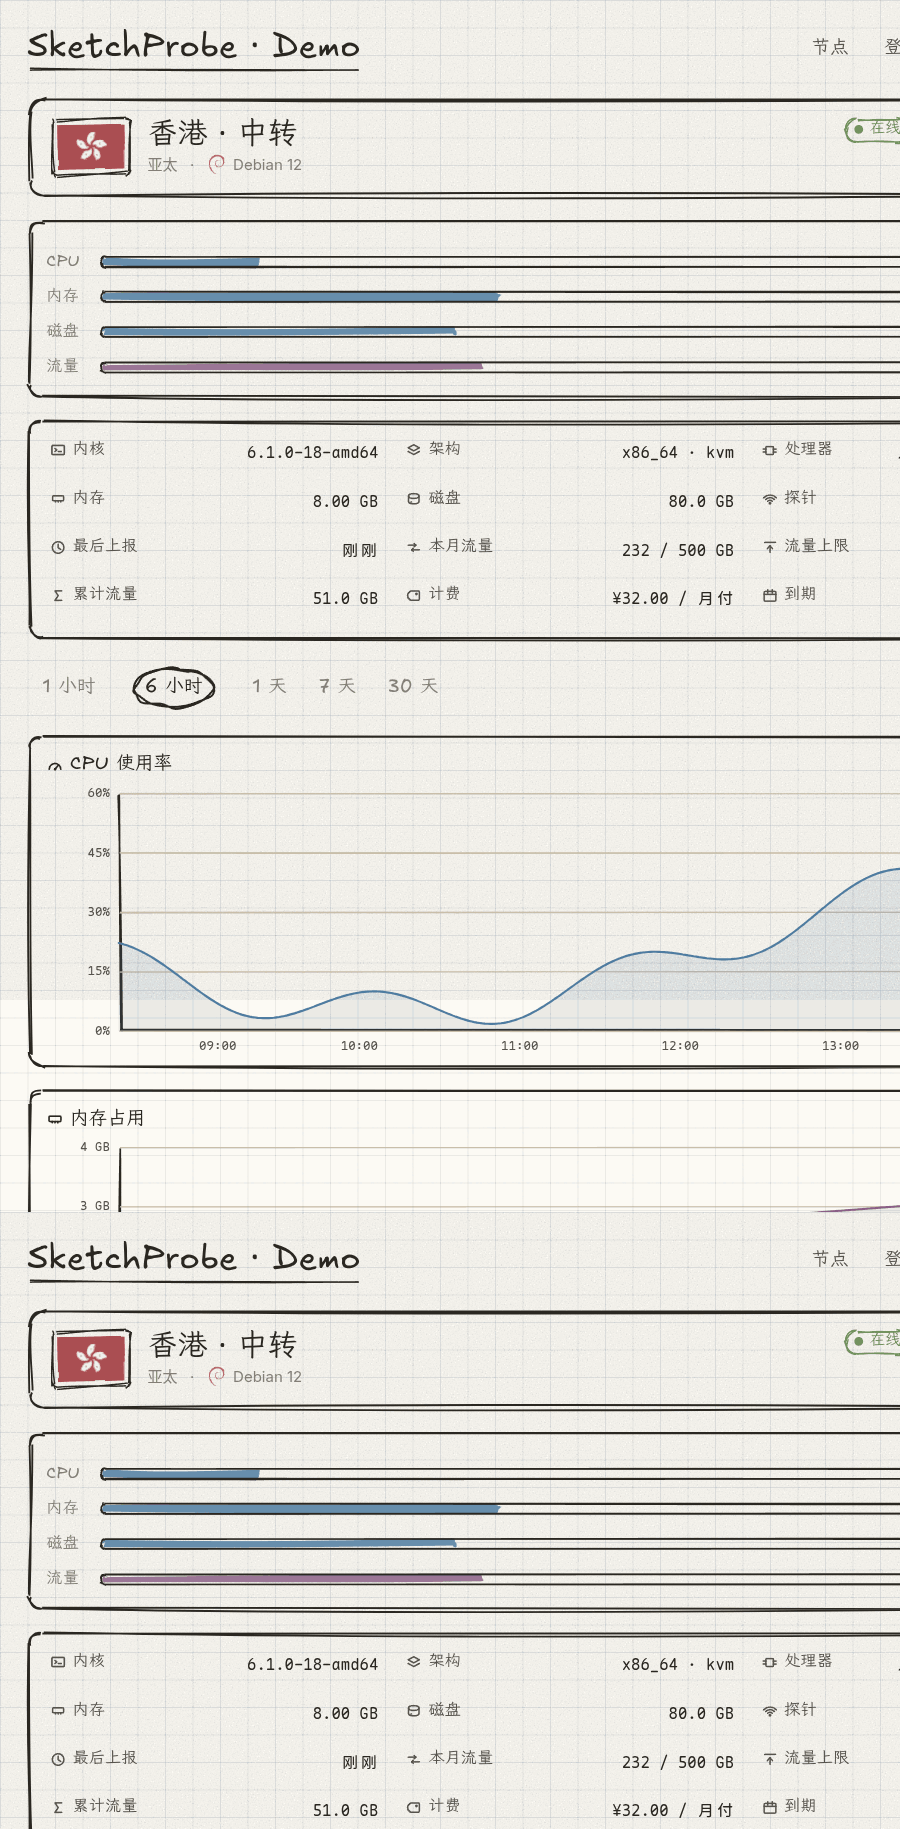
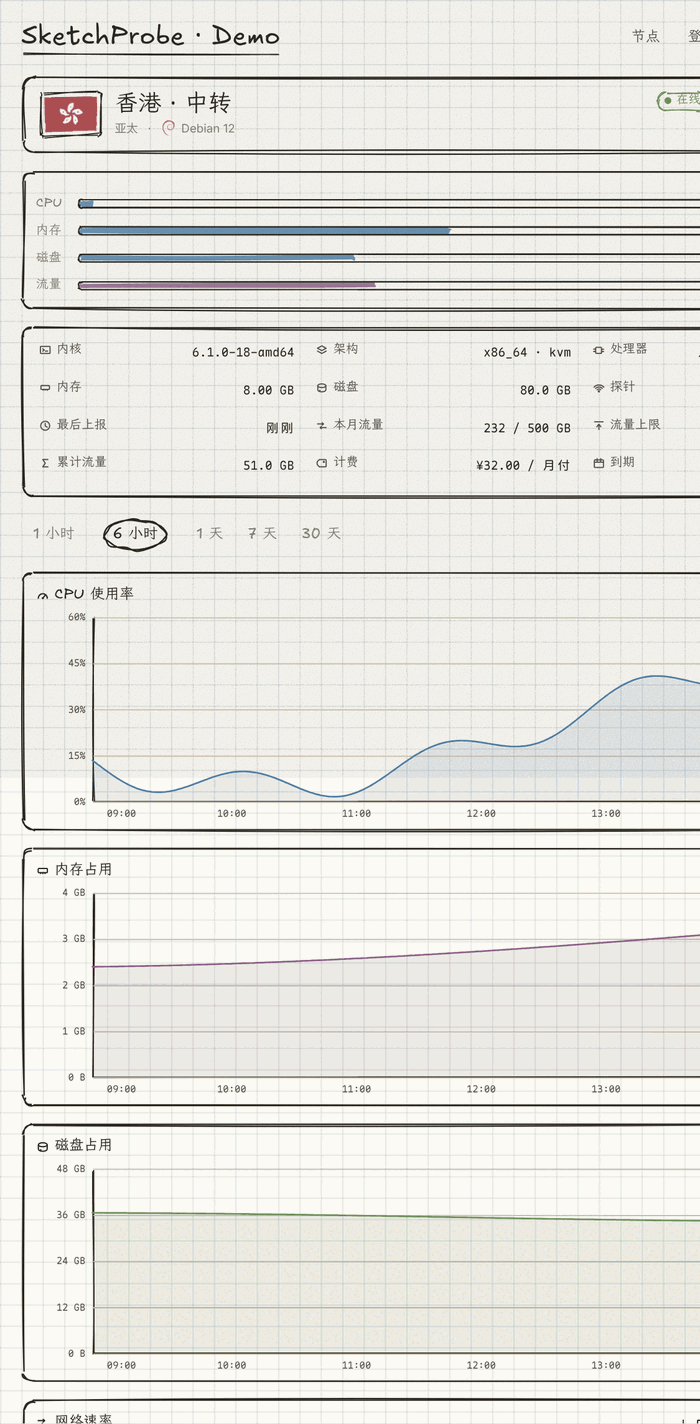
设计审查：按审查结论修订报告，并修掉窄屏横向溢出
报告：
- 撤回面积与实线像素的直接比较（66 倍那条），面积填充只留作主观观察；
  字号与间距的密度、图标数量都降为「值得收一次」而不是缺陷
- 记录实际 CSS 视口（1140x1000 模拟 → 900x800，DPR 1.25），并补上 342 档
- 补第 3 条：卡片网格固定 310px 下限在窄屏横向溢出 44px

代码：
- .grid 的 minmax 下限改为 min(100%, 310px)：外壳窄于 310px 时不再溢出，
  310px 以上行为不变（900 视口页高 2152 前后一致）
- .jump 的按钮 32px → 26px，左缘固定在外壳右缘内 8px，避开右对齐读数

diff --git a/src/index.css b/src/index.css
@@ -394,11 +394,11 @@ img {
    "回到顶部" would be a screen away from the reader who wants it. */
 .jump {
   position: fixed;
-  /* Sits in the card's right margin, its left edge a little inside the content
-     edge: at the window's own edge it covered the last 8px of the right-hand
-     column's readings as they scrolled past. 4px inside the window when the
-     shell fills it, and the same 4px past the shell's own edge once it is
-     centred past 1440px. */
+  /* Sits in the shell's right margin, which is 22px wide; the readings it passes
+     end 37px in from the window edge (22px shell + 15px panel padding), so a
+     button narrower than 33px clears the figure column. 4px inside the window
+     when the shell fills it, and the same 4px past the shell's own edge once it
+     is centred past 1440px. */
   right: max(4px, calc((100vw - 1440px) / 2 + 4px));
   bottom: 14px;
   display: flex;
@@ -410,6 +410,11 @@ img {
 
 /* Over the cards rather than in the bar, so the icons need their own ground. */
 .jump .icon-btn {
+  /* 26px, not the bar's 32px: at 32 the button's left edge landed 1px inside the
+     figure column, which left no room for a font fallback to widen a reading.
+     26px keeps 9px of clearance and is still over the 24px minimum target. */
+  width: 26px;
+  height: 26px;
   background: var(--paper-2);
   border: 1px solid var(--rule);
 }
@@ -558,7 +563,12 @@ img {
 
 .grid {
   display: grid;
-  grid-template-columns: repeat(auto-fill, minmax(310px, 1fr));
+  /* `min(100%, 310px)` rather than a flat 310px: below about 375px of window the
+     shell is narrower than the column, and a flat minimum made the row overflow
+     it -- the page scrolled 44px sideways and the rightmost readings slid under
+     the fixed jump button. Capping the minimum at the container width keeps one
+     column, unclipped, at any width, and changes nothing from 310px up. */
+  grid-template-columns: repeat(auto-fill, minmax(min(100%, 310px), 1fr));
   gap: var(--gap);
 }
 
@@ -713,9 +723,12 @@ img {
   font-variant-numeric: tabular-nums;
   font-size: 11.5px;
   /* The reading, not the label: full ink, so the figure is what the row is read
-     for. The size stays at 11.5px because the 122px column above is what the
-     longest value the format can produce needs -- "1023 MB / 2.00 GB", 115px at
-     this size -- and one step up to 12px would spend all but 1.6px of that. */
+     for. The label is muted, so the figure was already the darker of the two --
+     what was left was weight, and the size stays at 11.5px because the 122px
+     column above is sized for the longest value the format can produce (about
+     115px here, about 120px one step up). One step up still fits on this machine
+     but leaves almost nothing for a fallback face to be wider than the one
+     measured, so the size is left alone. */
   color: var(--ink);
   text-align: right;
   white-space: nowrap;
@@ -972,9 +985,8 @@ img {
 .panel-now {
   font-family: var(--font-mono);
   font-variant-numeric: tabular-nums;
-  /* One step under the title in size, but in the title's own ink: this is what
-     the panel is for, and at 13px in `--ink-soft` the label outranked the
-     figure on size and on weight both. */
+  /* One step under the title in size, but in the title's own ink: at 13px in
+     `--ink-soft` the label outranked the figure on size and on weight both. */
   font-size: 14px;
   color: var(--ink);
 }

diff --git a/design-review/README.md b/design-review/README.md
@@ -1,34 +1,34 @@
 # SketchProbe 主题 · 设计审查
 
 **审查基线** `413c173`（`main` `0ca7905` + 在飞分支 `feat/detail-fact-icons`、`feat/detail-panels-stack`、`feat/card-latency`）
-**审查环境** Chrome via CDP。模拟视口 1140×1000 → **实际 CSS 视口 900×800**（DPR 1.25）；手机档模拟 390×844 → **实际 300×675**。下面每个数字都是 `getBoundingClientRect` 实测，不是目测。模拟数据每次重绘会变，前后截图里数值不同属正常。
-**证据** `fleet-light.png`（列表页）、`detail-light.png`（详情页）、`offline-before-after.png`（这一版的前后对比）。
+**审查环境** Chrome via CDP，浅色主题。模拟视口 1140×1000 → **实际 CSS 视口 900×800**（DPR 1.25）；窄屏模拟 443×900 → **实际 342×800**，模拟 390×844 → **实际 300×675**。下面每个数字都是 `getBoundingClientRect` / `scrollWidth` 实测，不是目测。列表页 9 张节点卡。模拟数据每次重绘会变，截图之间数值不同属正常。
+**证据** `fleet-light.png`（列表页）、`detail-light.png`（详情页）、`offline-before-after.png`（离线卡前后，同一视口与主题）。
 
 ## 结论
 
-**手绘图标没有在重量上压过监控数据。** 参数区 12 枚 13px 图标 + 面板标题 4 枚 14px 图标，全页 18 枚。实测一枚图标与它旁边的两个汉字墨量几乎相等（图标 mean 198 / 墨占 23.6%，文字 mean 199 / 墨占 24.4%），8 倍放大下两者的光学中心也齐。所以「图标抢注意力」在单枚的轻重上不成立，它们是合格的注脚。
+**手绘图标没有在重量上压过监控数据。** 参数区 12 枚 13px 图标 + 面板标题 4 枚 14px 图标，全页 18 枚。实测一枚图标与它旁边的两个汉字墨量几乎相等（图标 mean 198 / 墨占 23.6%，文字 mean 199 / 墨占 24.4%），8 倍放大下两者的光学中心也齐。所以「图标抢注意力」在单枚的轻重上不成立，它们是合格的注脚。图标数量能不能证明抢注意力，这次的截图证明不了；能说的是**没有观察到小型行内图标压过读数**。
 
-真正在**面积**上压过数据的有两处：离线卡片的深色斜纹地面（已改），和三张图 `opacity .13` 的面积填充（建议，未改）。三张图的填充分别占各自绘图区的 52.2% / 48.0% / 77.0%，折线本身很轻，填充比它概括的数据重。
+按面积算，页面上压过数据的是两处：离线卡片的深色斜纹地面（这一版已改），和三张图 `opacity .13` 的面积填充。填充分别占各自绘图区的 52.2% / 48.0% / 77.0%。**但面积不能和折线的实线像素直接比较**——填充是 13% 透明，对纸色只有 1.17:1 的对比（暗色 1.26:1），所以它不响在对比度。面积填充是否增加视觉负担是主观判断，这一版没有据此动它。
 
-层级的问题不在图标而在字体：详情页 8 处读数全部比自己的标签小——`.panel-now` 对 `.panel-title`、`.meter-value` 11.5px 对 `.meter-name` 13px；列表页却相反，`.tile-value` 是 25px。同一个主题里两套相反的层级。
+层级的问题不在图标而在字体：详情页的读数比自己的标签小（`.panel-now` 14px 对 `.panel-title` 15px、`.meter-value` 11.5px 对 `.meter-name` 13px），列表页却相反（`.tile-value` 25px）。同一主题里两套相反的层级。**详情页的读数是历史图旁边的辅助摘要，比标题小不必然是层级倒置**，这一版只做了可读性调整，没有把它写成已证实的缺陷。
 
 ## 已确认的问题（实测）
 
-1. **没有回到顶部 / 跳到底部**（用户指出，实测属实）。审查时全站 `position: fixed|sticky` 元素数为 0；详情页 2.29 屏、列表页 2.72 屏（900×800），手机档 3.44 / 4.67 屏；只有换页时 `navigate()` 调 `scrollTo(0,0)`。滚动之后顶部导航和分组筛选全部滚走，要回顶部只能拖滚动条。**已在这一版实现。**
-2. **离线卡片的斜纹地面是整页最抢眼的东西。** `src/components/NodeCard.tsx:20`（基线）对离线节点用 `--muted` 铺满整张卡，面积最大、最重；而离线卡恰好是数字最少的一张，被强调的是一片空白。**已改**，见 `offline-before-after.png`。
-3. **读数在尺寸与墨色两项上都排在标签之后。** 见上。这一版只把 `.meter-value`、`.panel-now` 的墨色提到 `--ink`，尺寸基本未动（原因见下表第 3 条）。
-4. **地图把首屏占满。** 地图 856×333，占列表页 15.3%；第一个节点卡从 y=809 开始，也就是刚好掉在 800px 折线下面——首屏看得到地图和汇总，看不到任何节点。**取舍，未改。**
-5. **浮动跳转按钮压住内容列右缘 14px。** 按钮 32px 宽、外壳右留白 22px，`right: max(4px, …)` 放不下。实测它落在 x=864，而面板内文字区右缘在 863——正好让开 1px，所以 300 与 900 两种视口下按钮矩形与任何文字元素都**没有交集**，压住的是面板自己的右边距。滚动时仍可能擦过右对齐读数的尾部；要完全消除得把按钮缩到 ≤22px 宽，或给外壳加右留白。
+1. **没有回到顶部 / 跳到底部**（用户指出，实测属实）。审查时全站 `position: fixed|sticky` 元素数为 0；详情页 2.29 屏、列表页 2.72 屏（900×800），窄屏 3.44 / 4.67 屏；只有换页时 `navigate()` 调 `scrollTo(0,0)`。滚动之后顶部导航和分组筛选全部滚走。**已在这一版实现。**
+2. **离线卡片的斜纹地面是整页最抢眼的东西。** 基线 `src/components/NodeCard.tsx:20` 对离线节点用 `--muted` 铺满整张卡，面积最大、最重；而离线卡恰好是数字最少的一张，被强调的是一片空白。**已改**，见 `offline-before-after.png`。
+3. **列表页卡片网格在窄屏横向溢出 44px，溢出后读数会滑到浮动按钮底下。** `src/index.css:566` 的 `minmax(310px, 1fr)` 是固定下限，外壳窄于 310px 时这一列就撑出去：实测 CSS 视口 288px 下 `scrollWidth - clientWidth = 44`，卡片右缘到 x=332，而外壳右缘在 266。**已改**（`min(100%, 310px)`），见下表。
+4. **浮动按钮压住内容列右缘。** 按钮原本 32px 宽，落在 x=864，而面板文字区右缘在 863——只让开 1px；窄屏更糟，实测按钮左缘 258、最右读数右缘 316，被压住 58px。**已改**：按钮收到 26px（仍在 24px 最小点击区之上），左缘固定在外壳右缘再往内 8px。三档视口实测最右读数与按钮左缘的间距都是 7–8px，全滚动范围内按钮矩形与任何文字元素**无交集**（只与 `.summary`、`.map`、`.tabs` 三个整宽容器盒相交 8px，其内容左对齐，够不到）。
+5. **地图把首屏占满。** 地图 856×333，占列表页 15.3%；第一个节点卡从 y=809 开始，也就是刚好掉在 800px 折线下面——首屏看得到地图和汇总，看不到任何节点。**取舍，未改。**
 
 ## 主观建议（未改，只列出来讨论）
 
 - **字号与间距的密度。** CSS 里 17 个字号（8.5–27px），详情页实际渲染 10 个、列表页 12 个，其中 11 / 11.5 / 12 / 12.5 / 13 / 13.5 六个挤在 2.5px 内；`body` 声明 14px 却只有两条规则用它。间距同理：12 个 `gap` 值、约 15 个 `padding` 值，多数只差 1–3px。不同字体本来就需要光学校准，所以这不是缺陷，但值得收一次。
 - **图标数量。** 单枚不抢眼，18 枚同重量的几何符号放在一起，比它们标注的文字更密。要减的话减数量，不是减大小。
-- **窄屏。** 300 CSS px 下 `.meter-row` 的 `34px + 1fr + 122px` 只剩约 100px 给进度条；事实区三列时最后一个值被截 2px（`.fact-value hand`「AMD EPYC 7763 · 4 核」需要 153px、只有 151px）。
+- **窄屏的取舍。** 300 CSS px 下 `.meter-row` 的 `34px + 1fr + 122px` 只剩约 100px 给进度条；事实区三列时最后一个值被截 2px（`.fact-value hand`「AMD EPYC 7763 · 4 核」需要 153px、只有 151px）。这两处都是固定列宽换来的跨卡对齐，没有改。
 
 ## 保留（做得对的）
 
-- **对齐是干净的。** 外层内容边全部在 x=22（`.tabs`、`.detail-head`、`.facts`、`.panel`），内层全部在 x=37（`.panel-title`、`.meter-row`、`.chart`）。没有错位。
+- **对齐是干净的。** 外层内容边全部在 x=22（`.tabs`、`.detail-head`、`.facts`、`.panel`），内层全部在 x=37（`.panel-title`、`.meter-row`、`.chart`）。
 - **卡片内三列在所有卡之间严格对齐。** `.meter-row` 的 `34px + 1fr + 122px` 固定数值列就是为此：跨卡比条形时终点一致，`122px` 也是按最长值「1023 MB / 2.00 GB」定的。
 - **轴标签与字段名的对比度在前几轮已经提上来了**，这一版没有回退它们。
 
@@ -36,8 +36,9 @@
 
 | 文件 | 改动 |
 | --- | --- |
-| `src/App.tsx`、`src/index.css`（`.jump`） | 新增「回到顶部 / 跳到底部」两个原生按钮：沿用现有箭头图标、`aria-label` + `title`、`:focus-visible` 虚线焦点环；目标在按下时才读 `document.documentElement.scrollHeight`，不依赖初次加载高度；即时滚动，没有平滑滚动、没有观察器、没有新导航框架。 |
+| `src/App.tsx`、`src/index.css`（`.jump`） | 新增「回到顶部 / 跳到底部」两个原生按钮：沿用现有箭头图标、`aria-label` + `title`、`:focus-visible` 虚线焦点环；目标在按下时才读 `document.documentElement.scrollHeight`，不依赖初次加载高度；即时滚动，没有平滑滚动、没有观察器、没有新导航框架。按钮 32px → 26px 并改为固定在外壳右缘内 8px。 |
 | `src/components/NodeCard.tsx` | 离线节点不再用 `--muted` 铺满，改用与其他卡相同的 `--hatch`；状态语义（徽章、文案、状态图标）未动。 |
+| `src/index.css` `.grid` | `minmax(310px, 1fr)` → `minmax(min(100%, 310px), 1fr)`：外壳窄于 310px 时不再横向溢出。310px 以上行为完全不变（900 视口下页高 2152 前后一致）。 |
 | `src/index.css` `.meter-value` | `--ink-soft` → `--ink`。字号保持 11.5px：`122px` 数值列在最长值下已用掉 115px，再上一档 12px 只剩 1.6px 余量，会截断。 |
 | `src/index.css` `.panel-now` | 13px / `--ink-soft` → 14px / `--ink`：比标题小一档，但用标题的墨色。 |
 
@@ -45,6 +46,8 @@
 
 ## 验证
 
-- `npm run typecheck`（`tsc -b --noEmit`）退出码 0。
-- `git diff --check` 退出码 0。
-- 浏览器实测：两个按钮的鼠标点击与键盘可达；300 与 900 两种 CSS 视口下浮动按钮与文字无交集；`.meter-value` / `.panel-now` / `.tile-value` / `.badge` 在两种视口下都无截断。
+- `npm run typecheck`（`tsc -b --noEmit`）退出码 0；`git diff --check` 退出码 0。
+- **键盘**（真实 CDP 按键，非脚本 `.click()`）：焦点在「回到顶部」时按 Enter，`scrollY` 1172 → 0；焦点在「跳到底部」时按 Space，781 → 1669（= 最大滚动位置）。
+- **横向溢出**：CSS 视口 288 / 342 / 900 三档下 `scrollWidth - clientWidth` 全为 0（改前 288 档为 44）。
+- **遮挡**：三档视口 × 全页滚动范围（每 55px 一采样）扫描 `.meter-value`、`.card-name`、`.card-foot`、`.badge`、`.tile-value`、`.fact-value`、`.panel-now`、`.tabs` 等元素与按钮矩形的交集，最大交集 8px 且只出现在整宽容器盒上，**没有任何文字元素被按钮覆盖**；最右读数与按钮左缘间距 7–8px。
+- **截断**：`.meter-value` / `.panel-now` / `.tile-value` / `.badge` / `.card-foot` 在 288、342、900 三档下 `scrollWidth` 均未超过 `clientWidth`。
